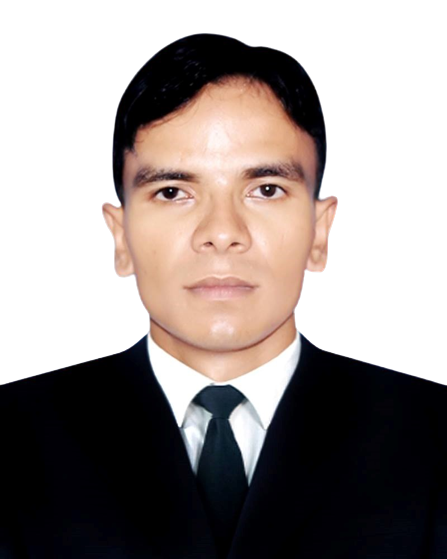
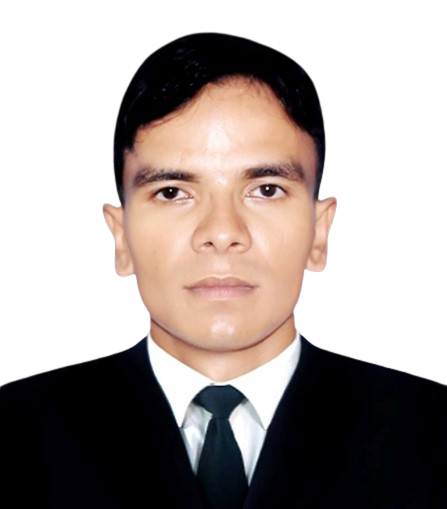
product section updated

Changed region(s): [[0.0, 0.1179, 1.0, 0.9725], [0.3199, 0.0589, 0.698, 0.1473]]

diff --git a/src/Components/Products.js b/src/Components/Products.js
@@ -5,93 +5,245 @@ import product3 from "../Images/products3.jpeg";
 import product4 from "../Images/products4.jpeg";
 import product5 from "../Images/products5.jpeg";
 import product6 from "../Images/products6.jpeg";
+import product7 from "../Images/products7.jpeg";
+import product8 from "../Images/products8.jpeg";
+import product9 from "../Images/products9.jpeg";
+import product10 from "../Images/products10.jpeg";
+import product11 from "../Images/products11.jpeg";
+import product12 from "../Images/products12.jpeg";
+import product13 from "../Images/products13.jpeg";
+import product14 from "../Images/products14.jpeg";
+import product15 from "../Images/products15.jpeg";
+import product17 from "../Images/products17.jpeg";
+import product18 from "../Images/products18.jpeg";
 
 const Products = () => {
   return (
-    <div className="mb-8">
-      <h2 className="my-8 text-2xl font-bold">Welcome to Products gallery </h2>
-      <div className="  grid grid-cols-1 lg:grid-cols-3   gap-8">
-        <div class=" mx-auto  card card-compact w-96 bg-base-100 shadow-xl hover:shadow-[#615855]  hover:shadow-2xl">
-          <figure>
-            <img src={product1} alt="Shoes" />
-          </figure>
-          <div class="card-body">
-            <h2 class="card-title justify-center ">Goodly</h2>
-            <p className="justify-center">Here some of our products details</p>
-            <div class="card-actions justify-center">
-              <button class=" btn btn-md bg-[#FF8A65] border-none">
-                Buy Now
-              </button>
+    <div className="">
+      <h2 className="mb-8 text-2xl font-bold bg-slate-200 p-8 ">
+        Welcome to Products gallery{" "}
+      </h2>
+      <div className="Products grid grid-cols-1 lg:grid-cols-3   gap-8">
+        <div className="product">
+          <div class=" mx-auto  card card-compact w-96 bg-base-100 shadow-xl hover:shadow-[#615855]  hover:shadow-2xl">
+            <figure>
+              <img className="w-48 mt-4" src={product10} alt="Shoes" />
+            </figure>
+            <div class="card-body">
+              <h2 class="card-title justify-center ">ICE Lolly Pop</h2>
+              <p className="justify-center">
+                Our one of the best product for the summer
+              </p>
+              <div class="card-actions justify-center">
+                <button class=" btn btn-md bg-[#FF8A65] border-none">
+                  Details
+                </button>
+              </div>
             </div>
           </div>
         </div>
-        <div class=" mx-auto  card card-compact w-96 bg-base-100 shadow-xl hover:shadow-[#615855]  hover:shadow-2xl">
-          <figure>
-            <img src={product2} alt="Shoes" />
-          </figure>
-          <div class="card-body">
-            <h2 class="card-title justify-center ">Goodly</h2>
-            <p className="justify-center">Here some of our products details</p>
-            <div class="card-actions justify-center">
-              <button class=" btn btn-md bg-[#FF8A65] border-none">
-                Buy Now
-              </button>
+        <div className="product">
+          <div class=" mx-auto  card card-compact w-96 bg-base-100 shadow-xl hover:shadow-[#615855]  hover:shadow-2xl">
+            <figure>
+              <img className="w-56 mt-6" src={product11} alt="Shoes" />
+            </figure>
+            <div class="card-body">
+              <h2 class="card-title justify-center ">ICE Lolly Pop</h2>
+              <p className="justify-center">
+                Our one of the best product for the summer
+              </p>
+              <div class="card-actions justify-center">
+                <button class=" btn btn-md bg-[#FF8A65] border-none">
+                  Details
+                </button>
+              </div>
             </div>
           </div>
         </div>
-        <div class=" mx-auto  card card-compact w-96 bg-base-100 shadow-xl hover:shadow-[#615855]  hover:shadow-2xl">
-          <figure>
-            <img src={product3} alt="Shoes" />
-          </figure>
-          <div class="card-body">
-            <h2 class="card-title justify-center ">Goodly</h2>
-            <p className="justify-center">Here some of our products details</p>
-            <div class="card-actions justify-center">
-              <button class=" btn btn-md bg-[#FF8A65] border-none">
-                Buy Now
-              </button>
+        <div className="product">
+          <div class=" mx-auto  card card-compact w-96 bg-base-100 shadow-xl hover:shadow-[#615855]  hover:shadow-2xl">
+            <figure>
+              <img className="w-56 mt-8" src={product12} alt="Shoes" />
+            </figure>
+            <div class="card-body">
+              <h2 class="card-title justify-center ">ICE Lolly Pop</h2>
+              <p className="justify-center">
+                Our one of the best product for the summer
+              </p>
+              <div class="card-actions justify-center">
+                <button class=" btn btn-md bg-[#FF8A65] border-none">
+                  Details
+                </button>
+              </div>
             </div>
           </div>
         </div>
-        <div class=" mx-auto  card card-compact w-96 bg-base-100 shadow-xl hover:shadow-[#615855]  hover:shadow-2xl">
-          <figure>
-            <img src={product4} alt="Shoes" />
-          </figure>
-          <div class="card-body">
-            <h2 class="card-title justify-center ">Goodly</h2>
-            <p className="justify-center">Here some of our products details</p>
-            <div class="card-actions justify-center">
-              <button class=" btn btn-md bg-[#FF8A65]  border-none">
-                Buy Now
-              </button>
+        <div className="product">
+          <div class=" mx-auto  card card-compact w-96 bg-base-100 shadow-xl hover:shadow-[#615855]  hover:shadow-2xl">
+            <figure>
+              <img className="w-56 mt-8" src={product13} alt="Shoes" />
+            </figure>
+            <div class="card-body">
+              <h2 class="card-title justify-center ">ICE Lolly Pop</h2>
+              <p className="justify-center">
+                Our one of the best product for the summer
+              </p>
+              <div class="card-actions justify-center">
+                <button class=" btn btn-md bg-[#FF8A65] border-none">
+                  Details
+                </button>
+              </div>
             </div>
           </div>
         </div>
-        <div class=" mx-auto  card card-compact w-96 bg-base-100 shadow-xl hover:shadow-[#615855]  hover:shadow-2xl">
-          <figure>
-            <img src={product5} alt="Shoes" />
-          </figure>
-          <div class="card-body">
-            <h2 class="card-title justify-center ">Goodly</h2>
-            <p className="justify-center">Here some of our products details</p>
-            <div class="card-actions justify-center">
-              <button class=" btn btn-md bg-[#FF8A65] border-none">
-                Buy Now
-              </button>
+        <div className="product">
+          <div class=" mx-auto  card card-compact w-96 bg-base-100 shadow-xl hover:shadow-[#615855]  hover:shadow-2xl">
+            <figure>
+              <img className="w-52 mt-6" src={product14} alt="Shoes" />
+            </figure>
+            <div class="card-body">
+              <h2 class="card-title justify-center ">ICE Lolly Pop</h2>
+              <p className="justify-center">
+                Our one of the best product for the summer
+              </p>
+              <div class="card-actions justify-center">
+                <button class=" btn btn-md bg-[#FF8A65] border-none">
+                  Details
+                </button>
+              </div>
             </div>
           </div>
         </div>
-        <div class=" mx-auto  card card-compact w-96 bg-base-100 shadow-xl hover:shadow-[#615855]  hover:shadow-2xl">
-          <figure>
-            <img src={product6} alt="Shoes" />
-          </figure>
-          <div class="card-body">
-            <h2 class="card-title justify-center ">Goodly</h2>
-            <p className="justify-center">Here some of our products details</p>
-            <div class="card-actions justify-center">
-              <button class=" btn btn-md bg-[#FF8A65] border-none">
-                Buy Now
-              </button>
+        <div className="product">
+          <div class=" mx-auto  card card-compact w-96 bg-base-100 shadow-xl hover:shadow-[#615855]  hover:shadow-2xl">
+            <figure>
+              <img className="w-56 mt-6" src={product15} alt="Shoes" />
+            </figure>
+            <div class="card-body">
+              <h2 class="card-title justify-center ">ICE Lolly Pop</h2>
+              <p className="justify-center">
+                Our one of the best product for the summer
+              </p>
+              <div class="card-actions justify-center">
+                <button class=" btn btn-md bg-[#FF8A65] border-none">
+                  Details
+                </button>
+              </div>
+            </div>
+          </div>
+        </div>
+      </div>
+
+      {/* Others products  */}
+      <h2 className="text-2xl font-bold bg-slate-200 p-8 mt-32 mb-8 ">
+        Others Products gallery{" "}
+      </h2>
+      <div className="Products grid grid-cols-1 lg:grid-cols-3 mb-8  gap-8">
+        <div className="product">
+          <div class=" mx-auto  card card-compact w-96 bg-base-100 shadow-xl hover:shadow-[#615855]  hover:shadow-2xl">
+            <figure>
+              <img className="" src={product1} alt="Shoes" />
+            </figure>
+            <div class="card-body">
+              <h2 class="card-title justify-center ">ICE Lolly Pop</h2>
+              <p className="justify-center">
+                Our one of the best product for the summer
+              </p>
+              <div class="card-actions justify-center">
+                <button class=" btn btn-md bg-[#FF8A65] border-none">
+                  Details
+                </button>
+              </div>
+            </div>
+          </div>
+        </div>
+        <div className="product">
+          <div class=" mx-auto  card card-compact w-96 bg-base-100 shadow-xl hover:shadow-[#615855]  hover:shadow-2xl">
+            <figure>
+              <img className="" src={product2} alt="Shoes" />
+            </figure>
+            <div class="card-body">
+              <h2 class="card-title justify-center ">ICE Lolly Pop</h2>
+              <p className="justify-center">
+                Our one of the best product for the summer
+              </p>
+              <div class="card-actions justify-center">
+                <button class=" btn btn-md bg-[#FF8A65] border-none">
+                  Details
+                </button>
+              </div>
+            </div>
+          </div>
+        </div>
+        <div className="product">
+          <div class=" mx-auto  card card-compact w-96 bg-base-100 shadow-xl hover:shadow-[#615855]  hover:shadow-2xl">
+            <figure>
+              <img className="" src={product3} alt="Shoes" />
+            </figure>
+            <div class="card-body">
+              <h2 class="card-title justify-center ">ICE Lolly Pop</h2>
+              <p className="justify-center">
+                Our one of the best product for the summer
+              </p>
+              <div class="card-actions justify-center">
+                <button class=" btn btn-md bg-[#FF8A65] border-none">
+                  Details
+                </button>
+              </div>
+            </div>
+          </div>
+        </div>
+        <div className="product">
+          <div class=" mx-auto  card card-compact w-96 bg-base-100 shadow-xl hover:shadow-[#615855]  hover:shadow-2xl">
+            <figure>
+              <img className="" src={product4} alt="Shoes" />
+            </figure>
+            <div class="card-body">
+              <h2 class="card-title justify-center ">ICE Lolly Pop</h2>
+              <p className="justify-center">
+                Our one of the best product for the summer
+              </p>
+              <div class="card-actions justify-center">
+                <button class=" btn btn-md bg-[#FF8A65] border-none">
+                  Details
+                </button>
+              </div>
+            </div>
+          </div>
+        </div>
+        <div className="product">
+          <div class=" mx-auto  card card-compact w-96 bg-base-100 shadow-xl hover:shadow-[#615855]  hover:shadow-2xl">
+            <figure>
+              <img className="" src={product5} alt="Shoes" />
+            </figure>
+            <div class="card-body">
+              <h2 class="card-title justify-center ">ICE Lolly Pop</h2>
+              <p className="justify-center">
+                Our one of the best product for the summer
+              </p>
+              <div class="card-actions justify-center">
+                <button class=" btn btn-md bg-[#FF8A65] border-none">
+                  Details
+                </button>
+              </div>
+            </div>
+          </div>
+        </div>
+        <div className="product">
+          <div class=" mx-auto  card card-compact w-96 bg-base-100 shadow-xl hover:shadow-[#615855]  hover:shadow-2xl">
+            <figure>
+              <img className=" " src={product6} alt="Shoes" />
+            </figure>
+            <div class="card-body">
+              <h2 class="card-title justify-center ">ICE Lolly Pop</h2>
+              <p className="justify-center">
+                Our one of the best product for the summer
+              </p>
+              <div class="card-actions justify-center">
+                <button class=" btn btn-md bg-[#FF8A65] border-none">
+                  Details
+                </button>
+              </div>
             </div>
           </div>
         </div>

diff --git a/src/Components/Team.js b/src/Components/Team.js
@@ -1,6 +1,6 @@
 import React from "react";
 import md from "../Images/Md.png";
-import teamM1 from "../Images/teamM1.png";
+import teamM1 from "../Images/teamM1.jpg";
 
 const Team = () => {
   return (
@@ -42,7 +42,7 @@ const Team = () => {
       <div className="team mt-8 grid gap-8 grid-cols-2 lg:grid-cols-4 mx-12 lg:mx-72">
         <div className="team-members">
           <div class="avatar">
-            <div class="w-28 rounded">
+            <div class="w-28 rounded-full ring  ring-offset-base-100 ring-offset-2">
               <img src={teamM1} />
             </div>
           </div>

diff --git a/src/Components/Blog.js b/src/Components/Blog.js
@@ -4,7 +4,7 @@ const Blog = () => {
   return (
     <div>
       <img
-        className="mt-8 mx-auto rounded-xl"
+        className="mt-8 w-96 lg:w-5/12  mx-auto rounded-xl "
         src="https://ca-935th.com/assets/img/winnerboards/Coming-soon.png"
         alt=""
       />
